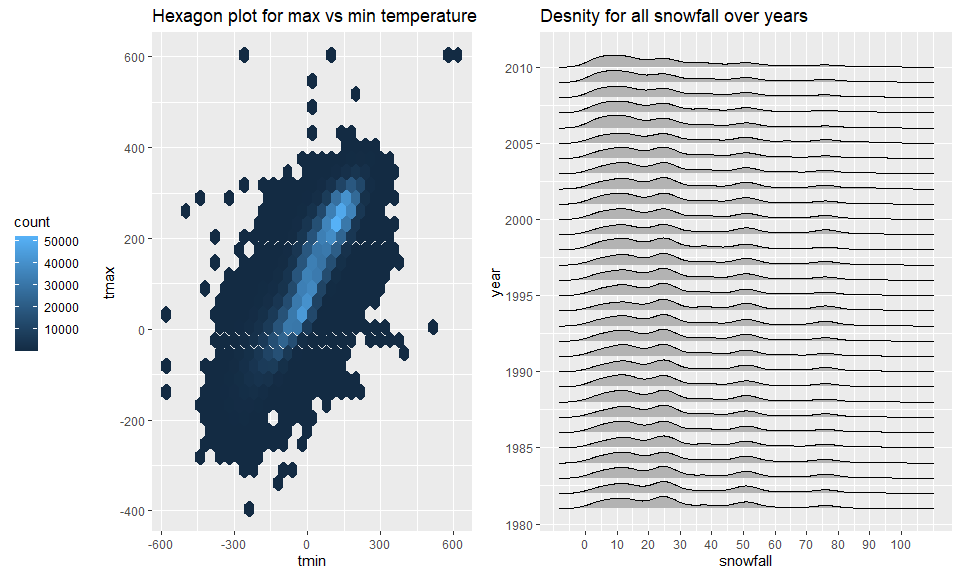
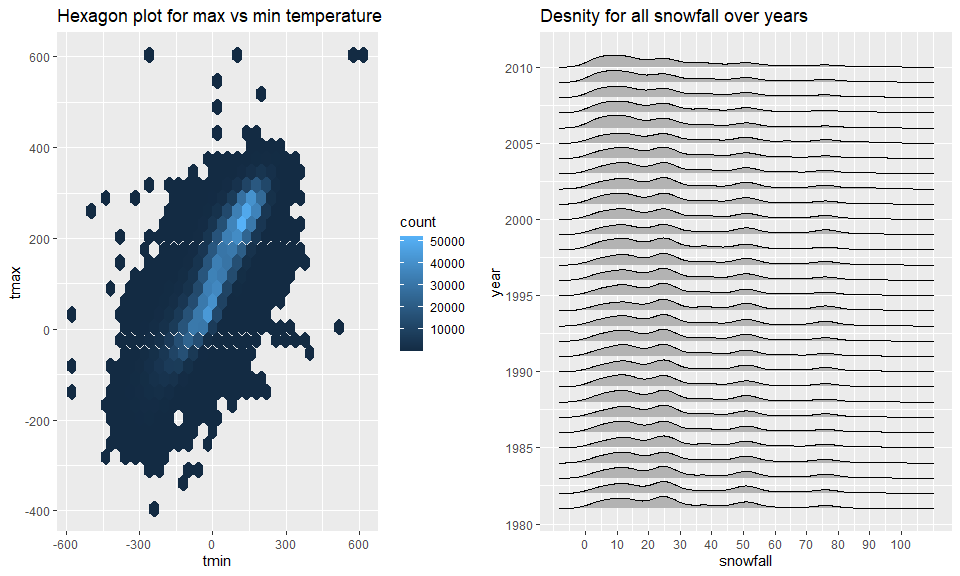
change the figure legend in Problem 3

diff --git a/p8105_hw3_sx2337.md b/p8105_hw3_sx2337.md
@@ -554,7 +554,7 @@ ny_hexagon =
   geom_hex() +
   labs(title = "Hexagon plot for max vs min temperature",
        x = "tmin",
-       y = "tmax")+theme(legend.position = "left")
+       y = "tmax")+theme(legend.position = "right")
   
 
 density_for_all_year = 
